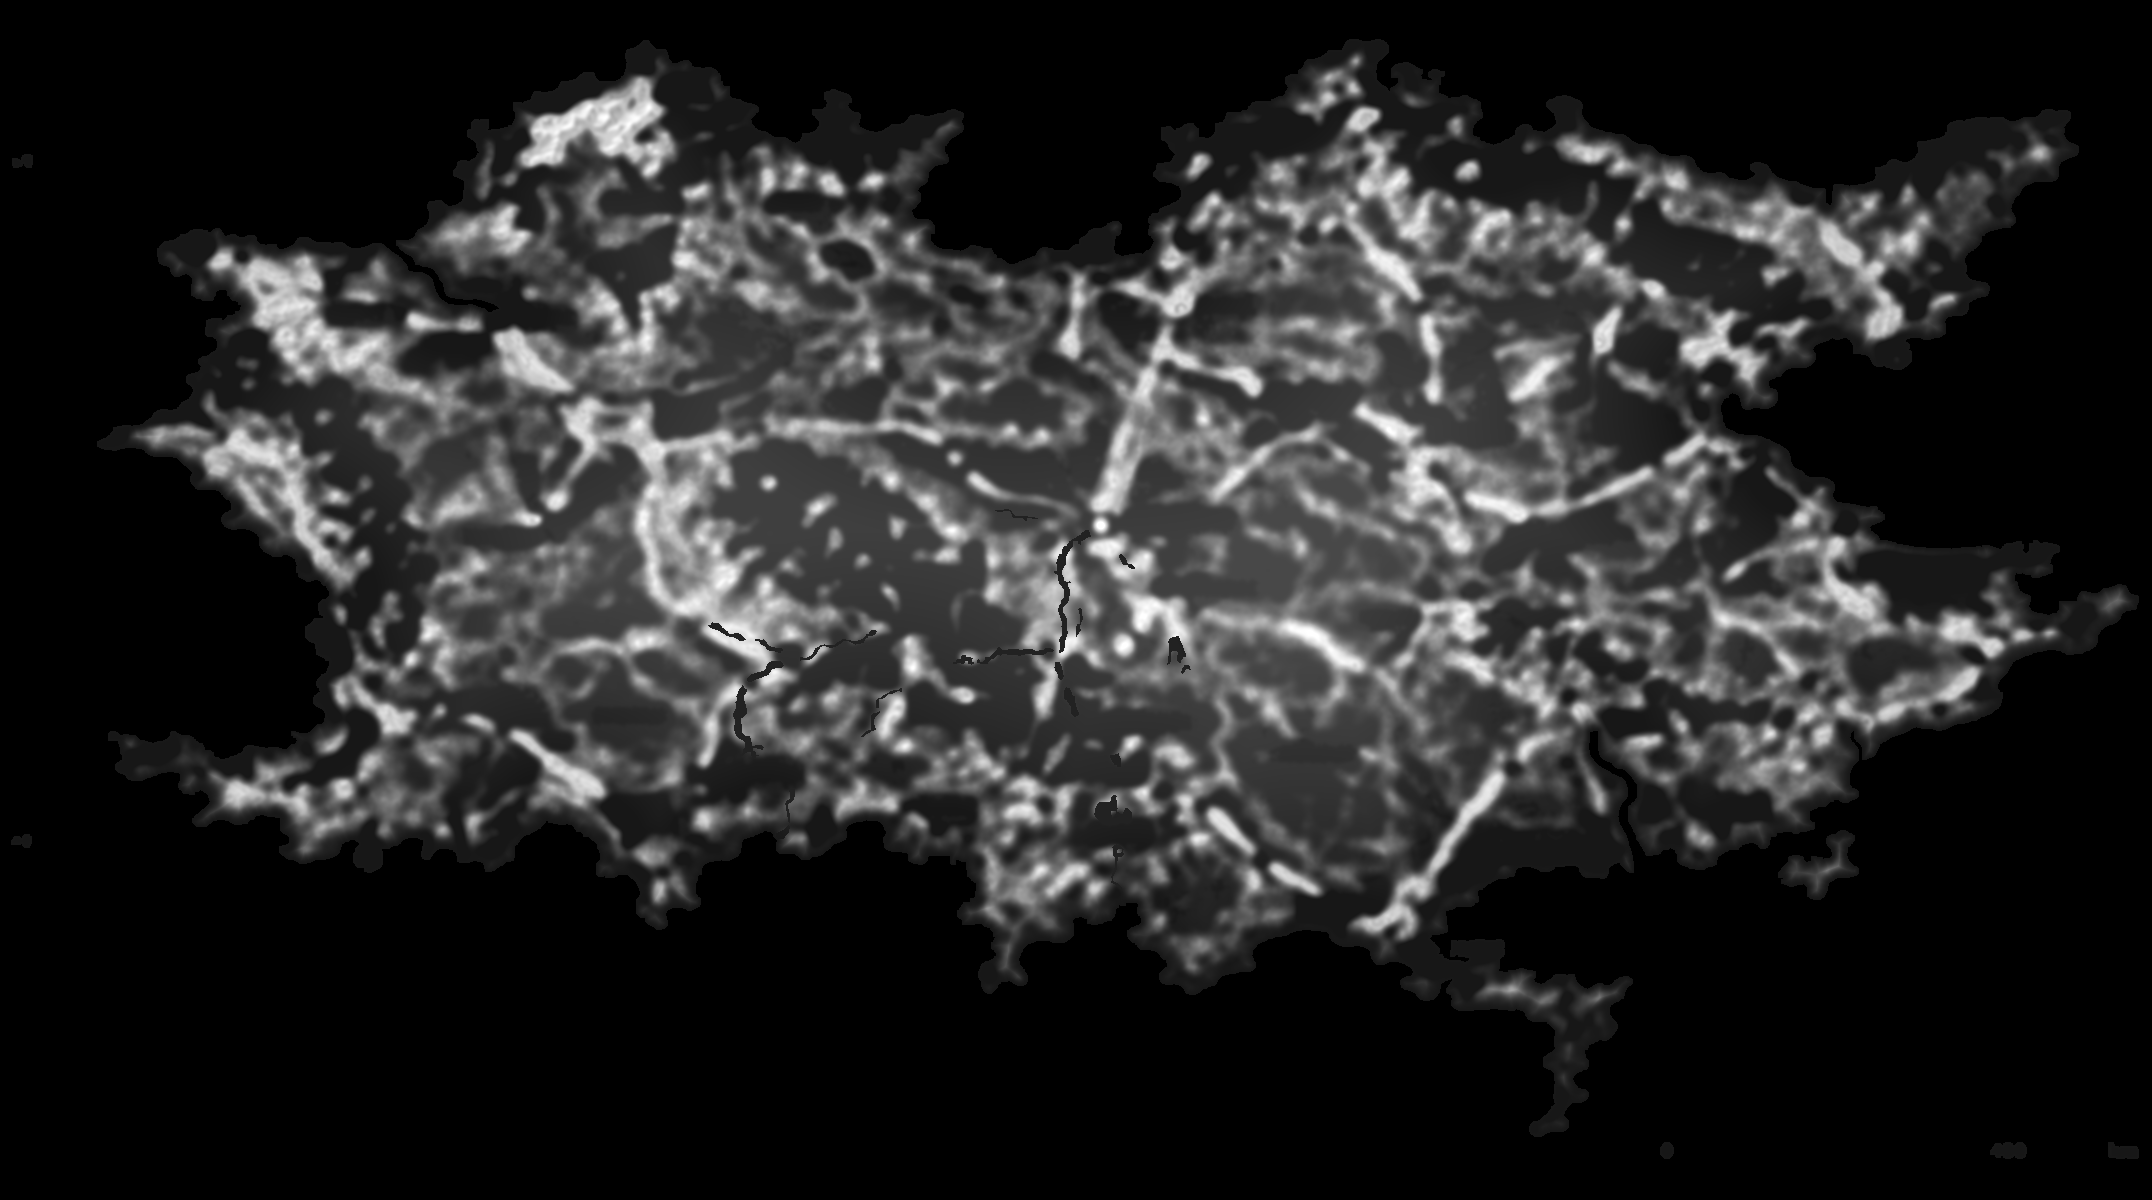
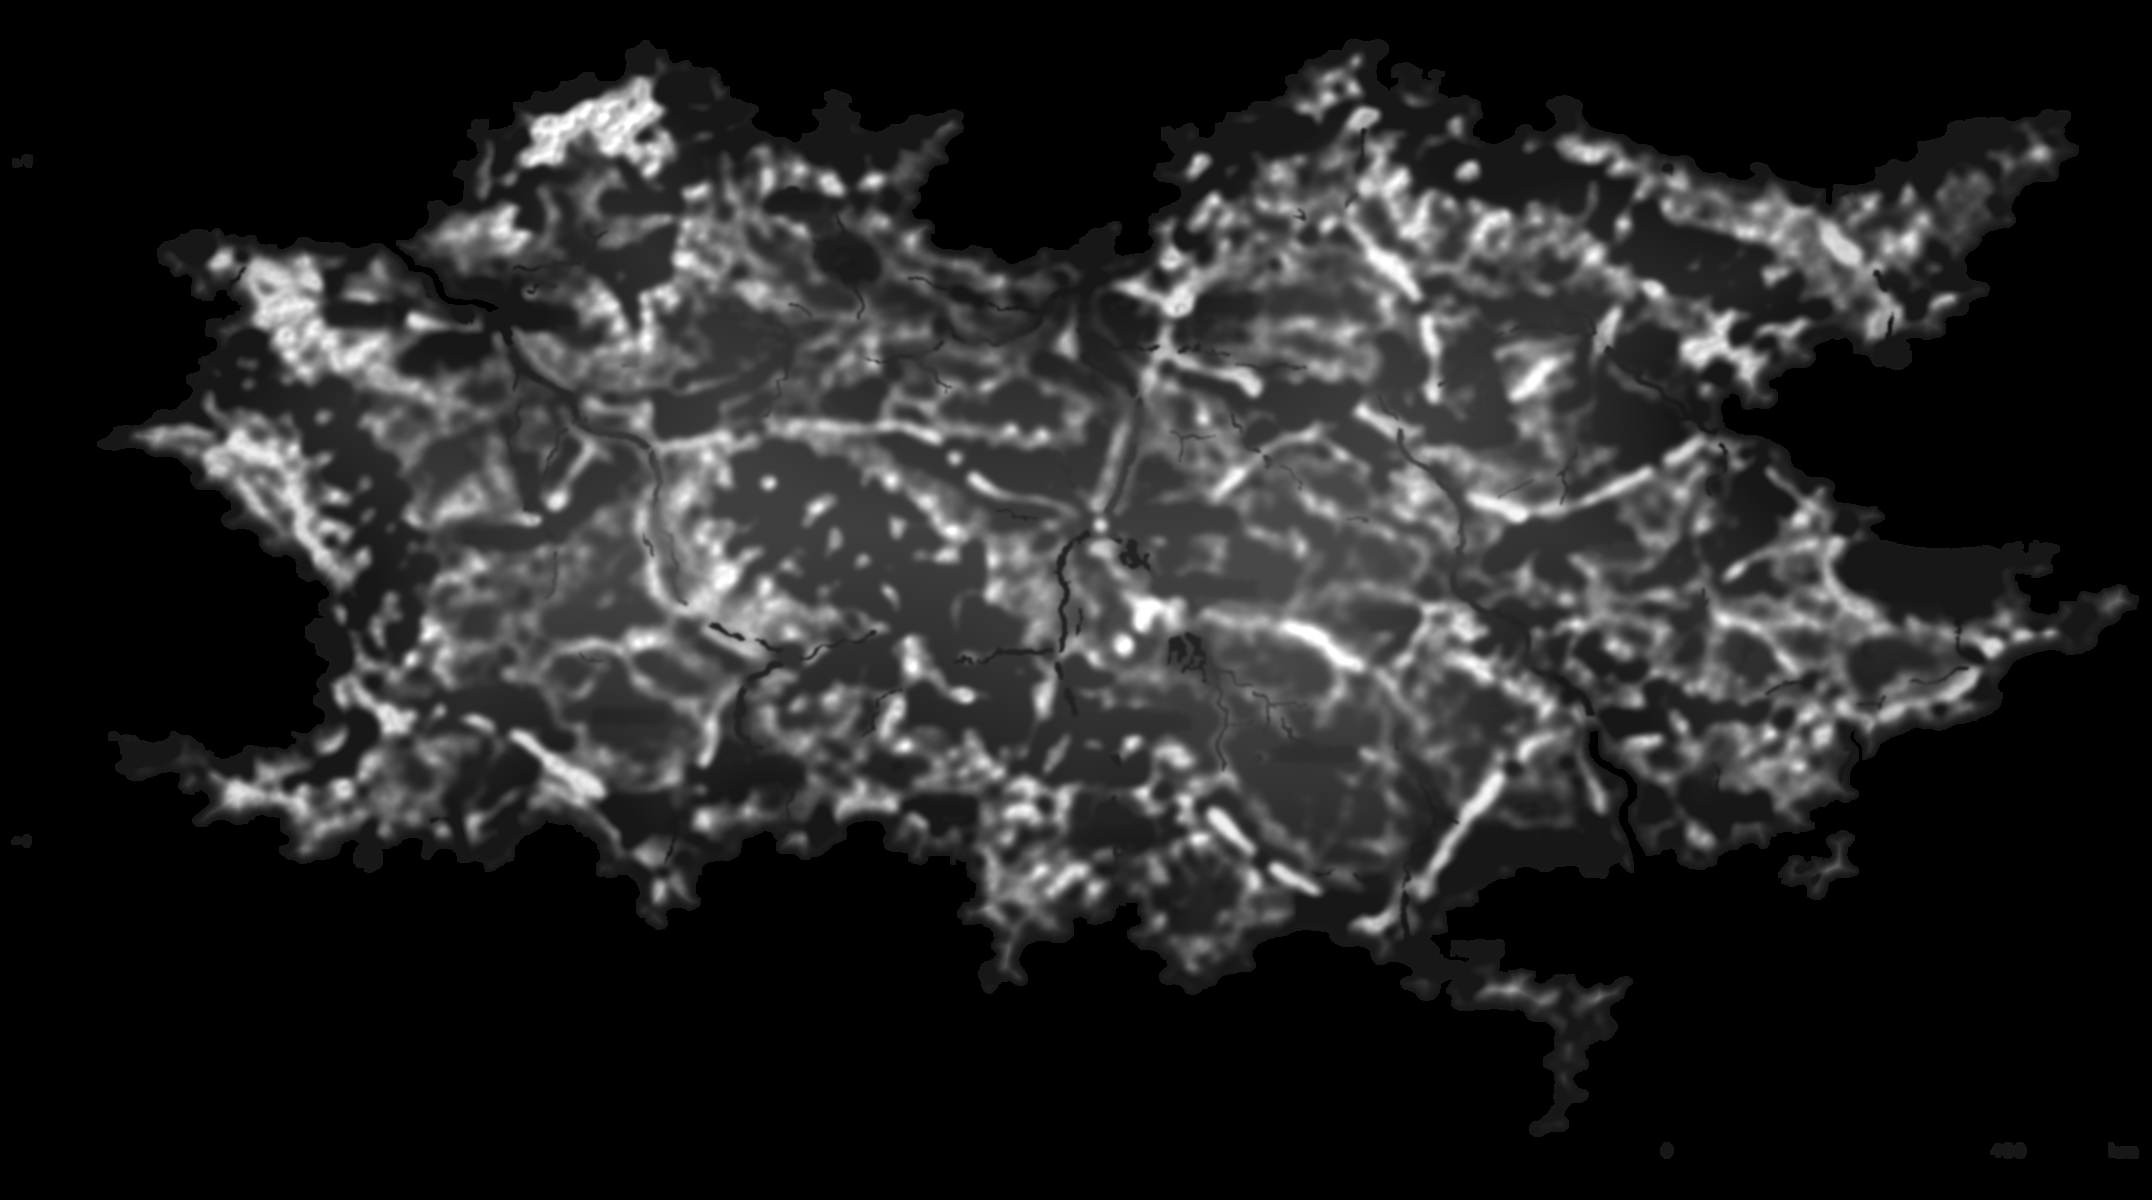
fix(flight): 河流不再爬山 — ver -122
起伏度是從插畫的紋理推出來的，跟河畫在哪完全無關 → 合成出來的山脊會
直接壓過作者畫的河道，河因此爬上山。

作法是「河的附近不長山」：把河道糊成一條影響帶（sigma 11 地圖像素），
帶內的起伏度壓掉 92%。這比事後把河挖下去好 —— 挖下去會在山裡切出峽谷
（＝垂直面，正是上一版要消滅的東西），壓掉則是讓河兩側本來就平。
另加一道保險：河面不高於 31 格鄰域的最低點，避免落在兩山之間的鞍部。

實測（3 格取樣）：
  河道中位高 98、99 分位 204
  陸地中位高 145、60 分位 153
  高於陸地 60 分位的河道只剩 5.9%

diff --git a/config.js b/config.js
@@ -8,7 +8,7 @@
 
 /* 版本號：顯示於診斷 HUD（首頁連點團徽 5 下開啟），每次部署遞增尾碼——
  *  用來確認手機（尤其 iOS 主畫面 App 的頑固快取）實際跑到的是哪一版。 */
-export const VERSION = 'ver 2026.08.17-121';
+export const VERSION = 'ver 2026.08.17-122';
 
 export const GAME_CONFIG = {
 

diff --git a/flight/build_map.py b/flight/build_map.py
@@ -69,6 +69,7 @@ CRUISE_ALT = 700      # 巡航高度：峰頂必須低於此值
 # 所以地形生成端就該少做垂直面，而不是等渲染端補救。
 EDGE_W       = 26     # 大陸邊緣往內收的過渡帶（地圖像素）→ 斜坡取代斷崖
 RIVER_INSET  = 16     # 一般河流的下嵌深度（世界單位）——只是「嵌一點」
+RIVER_FLAT   = 11     # 河道兩側「不長山」的影響半徑（高斯 sigma，地圖像素）
 GORGE_XY     = (940, 740)   # 卡耶爾山谷：唯一保留峽谷的地方（地圖像素）
 GORGE_R      = 260    # 峽谷作用半徑
 
@@ -172,6 +173,16 @@ def main():
     rug = ndi.gaussian_filter(rug, 5)
     lo, hi_ = np.percentile(rug[land], 25), np.percentile(rug[land], 97)
     rn = np.clip((rug - lo) / max(1e-3, hi_ - lo), 0, 1) * land   # 0..1
+
+    # ── 河道即谷底 ──
+    # ⚠ 起伏度是從插畫的紋理推出來的，跟河畫在哪完全無關 → 不處理的話
+    #   河會直接爬上合成出來的山脊。作者把河畫在低處，高度合成必須服從。
+    #   做法是「河的附近不長山」：把河道糊開成一條影響帶，帶內的起伏度
+    #   壓掉。這比事後把河挖下去好——挖下去會在山裡切出峽谷（＝垂直面），
+    #   壓掉則是讓河兩側本來就平。
+    riv_infl = ndi.gaussian_filter(lake.astype(np.float32), RIVER_FLAT)
+    riv_infl = np.clip(riv_infl / max(1e-6, riv_infl.max()) * 3.0, 0, 1)
+    rn = rn * (1.0 - riv_infl * 0.92)
     mount = land & (rn > 0.45)
     snow  = land & (csat < 0.18) & (clum > 150)
 
@@ -203,6 +214,14 @@ def main():
     # 淺嵌：先把遮罩糊開再減，河岸就是斜的而不是一階
     shallow = ndi.gaussian_filter((lake & ~gorge).astype(np.float32), 1.8)
     h -= shallow * RIVER_INSET
+
+    # 保險：即使壓過起伏度，河仍可能落在鄰域的高處（例如兩座山之間的鞍部）。
+    # 強制河面不高於鄰域最低點 —— 河一定在谷底，不會掛在坡上。
+    wet = lake & ~gorge
+    if wet.any():
+        locmin = ndi.minimum_filter(h, size=31)
+        h = np.where(wet, np.minimum(h, locmin + 6.0), h)
+        h = ndi.gaussian_filter(h, 1.2)          # 收邊，免得壓出一圈硬邊
 
     # (e) 大陸邊緣往內收：不做台地斷崖，改成往海岸遞減的斜坡。
     # ⚠ 原本 h[dist<RIM_W] = max(h, RIM_H) 是硬把邊緣墊高 → 整圈海岸線
